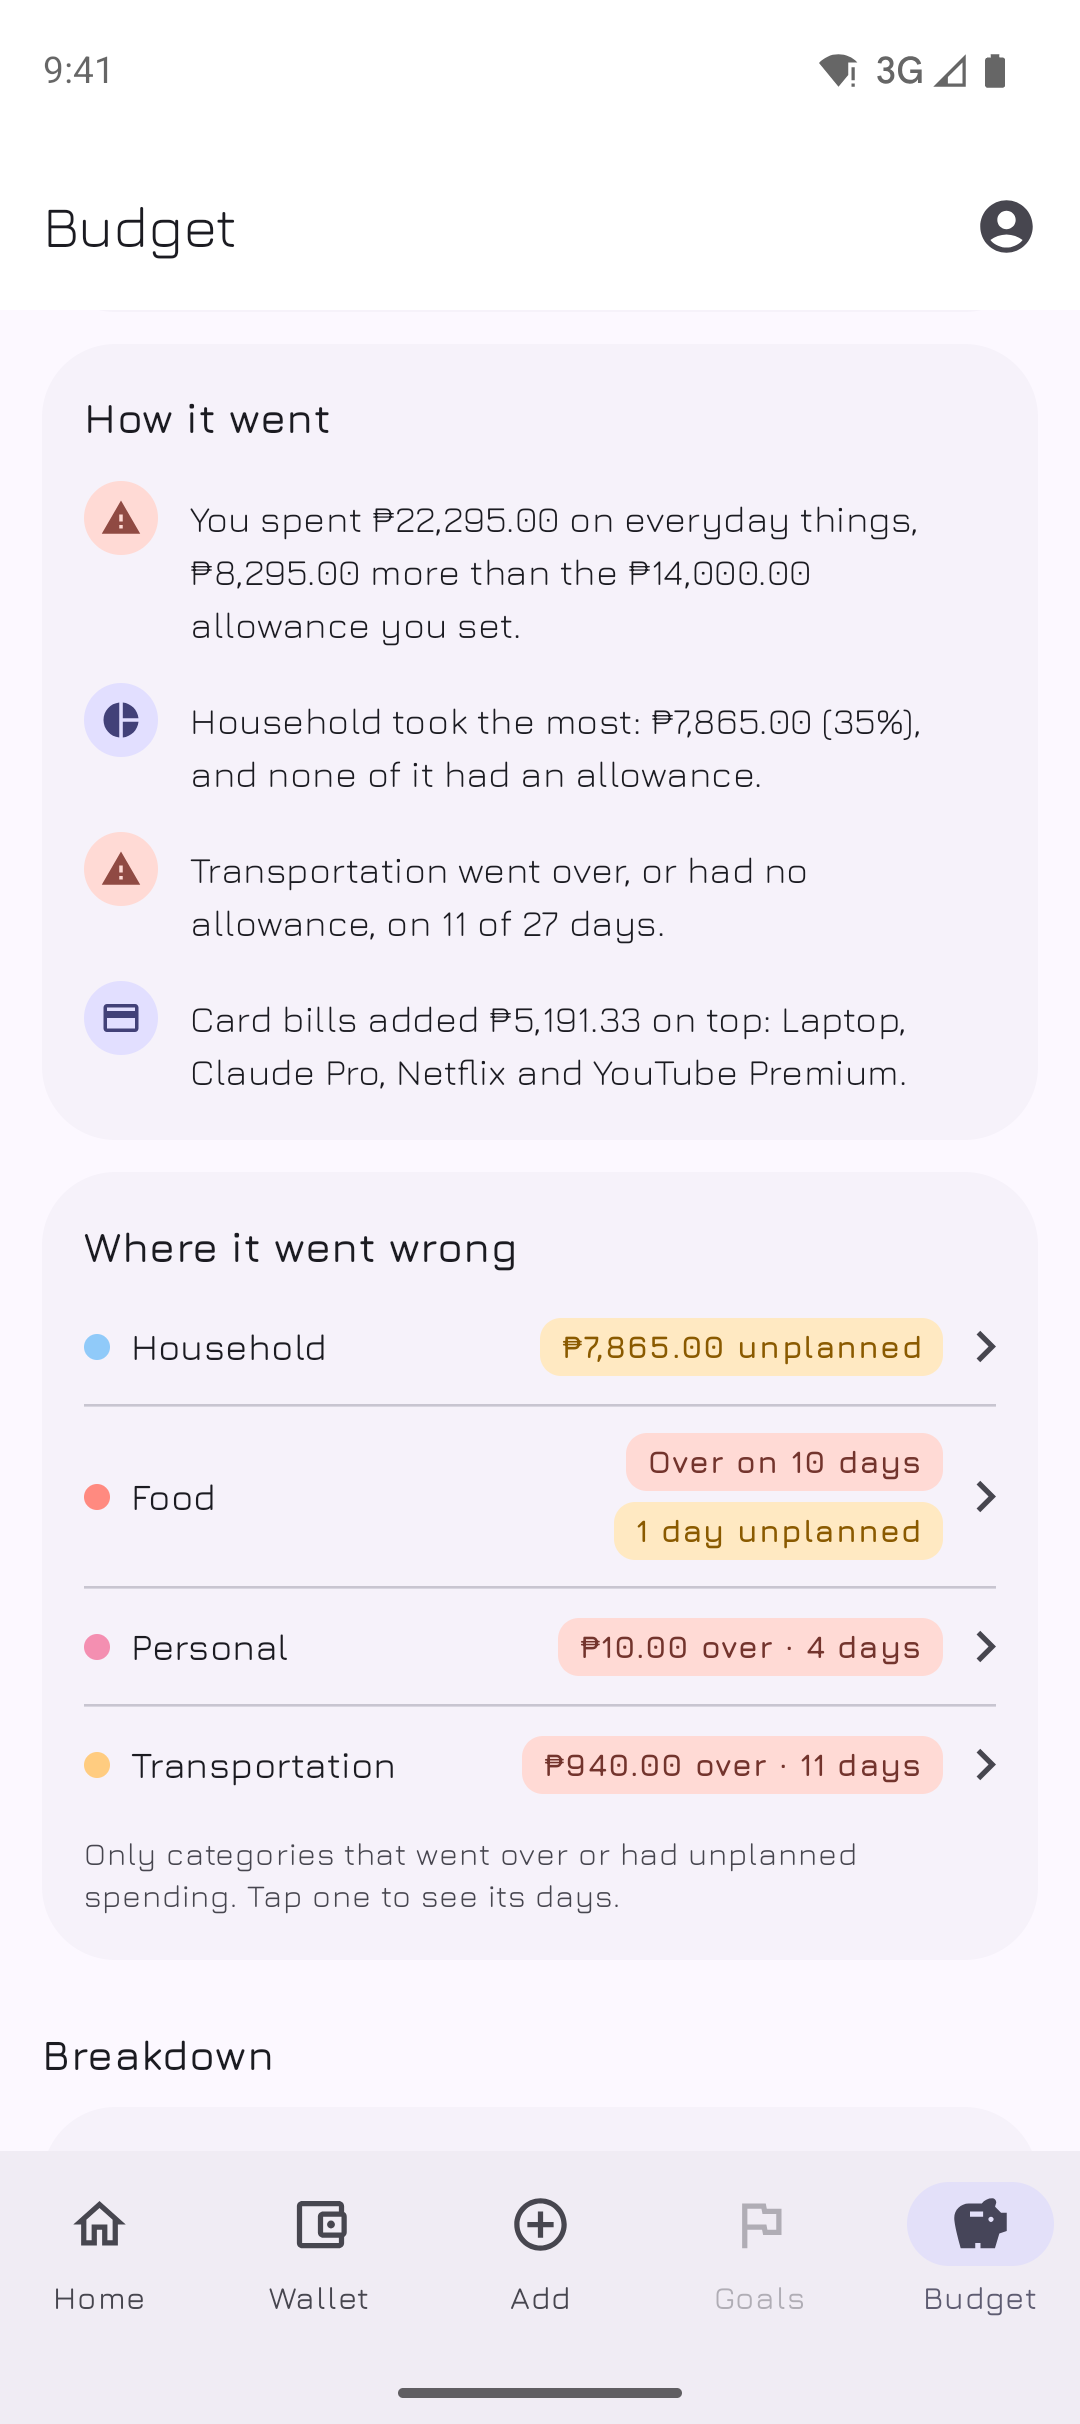
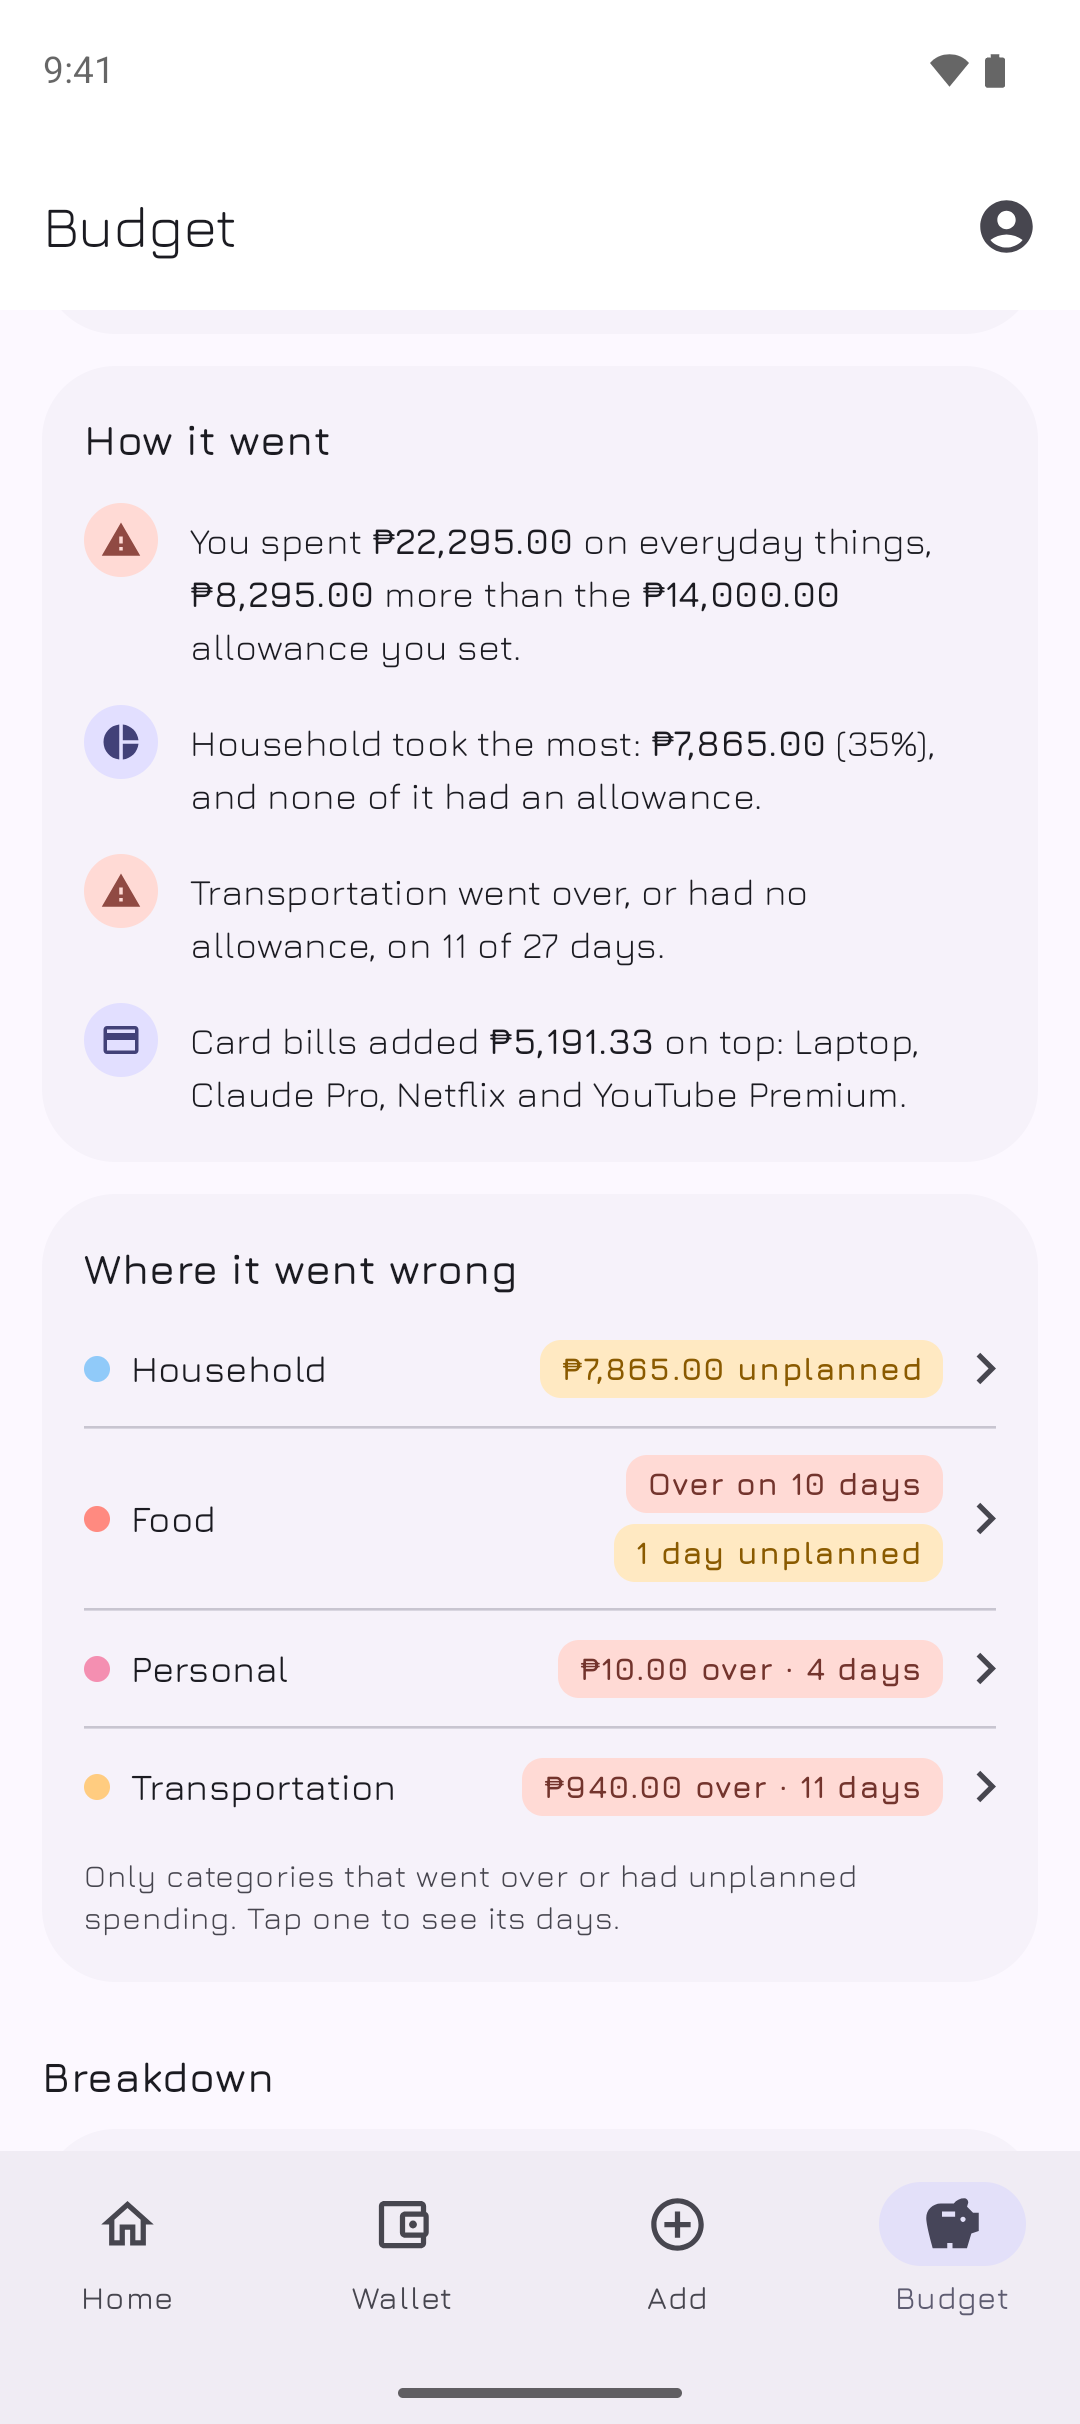
1.7.2: Hide social sign-in, bold Insights amounts
Google, Facebook and phone buttons are hidden on Login and Register until built.
More Insights amounts are SemiBold; README Budget shots retaken.

diff --git a/app/src/main/java/com/gmail/vondenuelle/denuspend/ui/budget/components/InsightsChartCard.kt b/app/src/main/java/com/gmail/vondenuelle/denuspend/ui/budget/components/InsightsChartCard.kt
@@ -47,7 +47,6 @@ import androidx.compose.ui.graphics.Color
 import androidx.compose.ui.res.colorResource
 import androidx.compose.ui.res.pluralStringResource
 import androidx.compose.ui.res.stringResource
-import androidx.compose.ui.text.AnnotatedString
 import androidx.compose.ui.text.SpanStyle
 import androidx.compose.ui.text.buildAnnotatedString
 import androidx.compose.ui.text.font.FontWeight
@@ -267,7 +266,7 @@ fun InsightsMonthDetail(monthDays: BudgetInsightsModel, modifier: Modifier = Mod
             Text(
                 if (monthDays.allowance > 0) {
                     buildAnnotatedString {
-                        append(stringResource(R.string.insights_month_spent_of, peso(monthDays.spent), peso(monthDays.allowance), monthDays.category))
+                        append(boldAmounts(stringResource(R.string.insights_month_spent_of, peso(monthDays.spent), peso(monthDays.allowance), monthDays.category)))
                         withStyle(SpanStyle(color = statusColor, fontWeight = FontWeight.Bold)) {
                             append(
                                 if (left >= 0) stringResource(R.string.budget_lbl_left, peso(left))
@@ -276,13 +275,15 @@ fun InsightsMonthDetail(monthDays: BudgetInsightsModel, modifier: Modifier = Mod
                         }
                     }
                 } else {
-                    AnnotatedString(stringResource(R.string.insights_month_spent, peso(monthDays.spent)))
+                    boldAmounts(stringResource(R.string.insights_month_spent, peso(monthDays.spent)))
                 },
                 style = MaterialTheme.typography.bodyMedium
             )
             Text(
-                pluralStringResource(R.plurals.budget_transactions_made, monthDays.transactionCount.toInt(), monthDays.transactionCount.toInt()) +
-                    " · " + stringResource(R.string.insights_month_avg_day, peso(monthDays.avgPerDay)),
+                boldAmounts(
+                    pluralStringResource(R.plurals.budget_transactions_made, monthDays.transactionCount.toInt(), monthDays.transactionCount.toInt()) +
+                    " · " + stringResource(R.string.insights_month_avg_day, peso(monthDays.avgPerDay))
+                ),
                 style = MaterialTheme.typography.bodyMedium
             )
             if (monthDays.allowance > 0 || monthDays.unplannedDays > 0) {

diff --git a/app/src/main/java/com/gmail/vondenuelle/denuspend/ui/budget/components/InsightsCompareCard.kt b/app/src/main/java/com/gmail/vondenuelle/denuspend/ui/budget/components/InsightsCompareCard.kt
@@ -79,12 +79,14 @@ fun InsightsCompareCard(
         // With nothing tracked before, the subtitle already says so, so no second line saying the same thing
         if (insights.previousDayCount > 0) {
             Text(
-                when {
-                    percent == null -> stringResource(R.string.insights_compare_no_data, insights.category)
-                    percent == 0 -> stringResource(R.string.insights_compare_same, insights.category)
-                    current > previous -> stringResource(R.string.insights_compare_more, peso(current - previous), insights.category)
-                    else -> stringResource(R.string.insights_compare_less, peso(previous - current), insights.category)
-                },
+                boldAmounts(
+                    when {
+                        percent == null -> stringResource(R.string.insights_compare_no_data, insights.category)
+                        percent == 0 -> stringResource(R.string.insights_compare_same, insights.category)
+                        current > previous -> stringResource(R.string.insights_compare_more, peso(current - previous), insights.category)
+                        else -> stringResource(R.string.insights_compare_less, peso(previous - current), insights.category)
+                    }
+                ),
                 style = MaterialTheme.typography.bodyMedium
             )
         }

diff --git a/app/src/main/java/com/gmail/vondenuelle/denuspend/ui/auth/screen/LoginScreen.kt b/app/src/main/java/com/gmail/vondenuelle/denuspend/ui/auth/screen/LoginScreen.kt
@@ -48,7 +48,6 @@ import com.gmail.vondenuelle.denuspend.ui.auth.AuthScreenState
 import com.gmail.vondenuelle.denuspend.ui.auth.AuthViewModel
 import com.gmail.vondenuelle.denuspend.ui.auth.components.AuthGlowButton
 import com.gmail.vondenuelle.denuspend.ui.auth.components.AuthHeader
-import com.gmail.vondenuelle.denuspend.ui.auth.components.SocialSignInButtons
 import com.gmail.vondenuelle.denuspend.ui.common.components.AppTextField
 import com.gmail.vondenuelle.denuspend.ui.common.dialog.ErrorDialog
 import com.gmail.vondenuelle.denuspend.ui.common.dialog.LoadingDialog
@@ -193,8 +192,9 @@ fun LoginScreenContent(
             )
 
             // =============== OTHER SIGN INS
-            Spacer(modifier = Modifier.height(24.dp))
-            SocialSignInButtons()
+            // Hidden until Google, Facebook and phone sign-in are built; uncomment both lines to show them again
+            // Spacer(modifier = Modifier.height(24.dp))
+            // SocialSignInButtons()
 
             Spacer(modifier = Modifier.height(16.dp))
             Row(

diff --git a/app/src/main/java/com/gmail/vondenuelle/denuspend/ui/auth/screen/RegisterScreen.kt b/app/src/main/java/com/gmail/vondenuelle/denuspend/ui/auth/screen/RegisterScreen.kt
@@ -47,7 +47,6 @@ import com.gmail.vondenuelle.denuspend.ui.auth.AuthScreenState
 import com.gmail.vondenuelle.denuspend.ui.auth.AuthViewModel
 import com.gmail.vondenuelle.denuspend.ui.auth.components.AuthGlowButton
 import com.gmail.vondenuelle.denuspend.ui.auth.components.AuthHeader
-import com.gmail.vondenuelle.denuspend.ui.auth.components.SocialSignInButtons
 import com.gmail.vondenuelle.denuspend.ui.common.components.AppTextField
 import com.gmail.vondenuelle.denuspend.ui.common.dialog.ErrorDialog
 import com.gmail.vondenuelle.denuspend.ui.common.dialog.LoadingDialog
@@ -177,8 +176,9 @@ fun RegisterScreenContent(
             )
 
             // =============== OTHER SIGN INS
-            Spacer(modifier = Modifier.height(24.dp))
-            SocialSignInButtons()
+            // Hidden until Google, Facebook and phone sign-in are built; uncomment both lines to show them again
+            // Spacer(modifier = Modifier.height(24.dp))
+            // SocialSignInButtons()
 
             Spacer(modifier = Modifier.height(16.dp))
 

diff --git a/app/src/main/java/com/gmail/vondenuelle/denuspend/ui/budget/components/InsightsDaySheetContent.kt b/app/src/main/java/com/gmail/vondenuelle/denuspend/ui/budget/components/InsightsDaySheetContent.kt
@@ -46,7 +46,7 @@ fun InsightsDaySheetContent(
             style = MaterialTheme.typography.titleLarge,
             fontWeight = FontWeight.SemiBold
         )
-        Text(stringResource(R.string.insights_day_spent, peso(day.spent)), style = MaterialTheme.typography.bodyMedium)
+        Text(boldAmounts(stringResource(R.string.insights_day_spent, peso(day.spent))), style = MaterialTheme.typography.bodyMedium)
         if (day.allowance > 0) {
             AllowanceLine(spent = day.spent, allowance = day.allowance, category = category)
         } else {

diff --git a/app/src/main/java/com/gmail/vondenuelle/denuspend/ui/budget/components/InsightsWeekdayCard.kt b/app/src/main/java/com/gmail/vondenuelle/denuspend/ui/budget/components/InsightsWeekdayCard.kt
@@ -118,7 +118,7 @@ fun InsightsWeekdayCard(
                         fontWeight = FontWeight.Bold
                     )
                     Text(
-                        stringResource(R.string.insights_weekday_detail_total, peso(detail.spent), peso(detail.avgPerDay)),
+                        boldAmounts(stringResource(R.string.insights_weekday_detail_total, peso(detail.spent), peso(detail.avgPerDay))),
                         style = MaterialTheme.typography.bodyMedium
                     )
                     if (showOverspent) {

diff --git a/docs/notes/budget-insights.md b/docs/notes/budget-insights.md
@@ -14,5 +14,5 @@
 - **Insight sentences** (`insightLines`): top weekday (≥ 14 days so each weekday shows up twice, ≥ 5% more, skipped when one purchase is over half of that weekday's spending), over/unplanned, biggest day / heaviest month (compared with the *other* months' average), share of all spending. 1.7.0: everything is **rounded** (`roundDiv`, `percentChange`, `percentOf`), and ≥ 100% reads "about N×". Each is **one string resource**: Android trims leading and trailing spaces in strings.xml (even `\u0020`), so a string that needs one at an edge is quoted, like `insights_month_spent_of`.
 - **Say "Food allowance", not "allowance".** Users read a bare "allowance" as the overall total. `AllowanceLine(category = …)` prints the category on Insights; the dashboard total line passes none.
 - **Month by month** shows ₱/day (bold) + ▲▼ vs the month before, because partial months make totals misleading. `DeltaChip` never wraps and its box is `widthIn(min = 64.dp)`, so a big % widens its row instead of splitting.
-- **Bold rule (1.7.1):** a row's main amount is Bold; peso amounts inside sentences (How it went, Insights sentences, `AllowanceLine`) are SemiBold through `boldAmounts()` (regex on ₱ amounts, so %, days and names stay regular); small sub-lines like the Months "₱X total · ₱Y under" stay regular so they don't compete with the main number.
+- **Bold rule (1.7.1, 1.7.2):** a row's main amount is Bold. Peso amounts inside sentences are SemiBold through `boldAmounts()` (a regex on ₱ amounts, so %, days and names stay regular): How it went, Insights sentences, `AllowanceLine`, the chart's month box, the compare sentence, the weekday detail and the day sheet's "Spent". The Month by month card stays regular, so ₱/day is its only bold number.
 - **1.7.0 small fixes:** with nothing tracked before the range, the compare card shows only "Nothing tracked before this range yet". The last day's chart label always shows and the regular label next to it is skipped (`dayBars`). Opening a month in a custom range starts on the range's first day (`getBudgetInsightsMonthDays(firstDay)`).

diff --git a/docs/notes/auth.md b/docs/notes/auth.md
@@ -19,6 +19,6 @@
   - `ui/common/components/AppTextField.kt` is the app-wide field (label above, the placeholder inside instead of a floating label, red border and message on error, decorative leading icon, built-in password toggle, `onImeAction` for Done). It's also used in Profile and `EmailActionActivity`.
   - `ui/auth/components/AuthComponents.kt` has `AuthHeader`, `AuthGlowButton` and `SocialSignInButtons`, shared by Login, Register and Forgot password.
 - **Logo placeholder:** `AuthHeader` shows a wallet icon in a `primaryContainer` circle. Swap that `Box` for an `Image` when a real logo exists (see the comment in `AuthComponents.kt`).
-- **Social buttons are placeholders.** One row of icon-only buttons using the official Google (`ic_google_neutral_rd_na`, icon-only asset) and Facebook (`ic_facebook_logo`) drawables as-is, plus a tonal phone button. Each shows a "Coming soon" toast until it's wired up.
+- **Social buttons are hidden (1.7.2)** on Login and Register (the `SocialSignInButtons()` call is commented out) until Google, Facebook and phone sign-in are built. They are placeholders: one row of icon-only buttons using the official Google (`ic_google_neutral_rd_na`, icon-only asset) and Facebook (`ic_facebook_logo`) drawables as-is, plus a tonal phone button. Each shows a "Coming soon" toast until it's wired up.
 - **Insets:** auth screens use `safeDrawing.only(Top + Bottom)`. Don't use `safeContentPadding()`, because it adds gesture-nav side insets and makes the form narrow.
 - **Colors:** fields and the back button use `surfaceContainerLowest` (white in light mode, dark in dark mode). Never `Color.White`.
